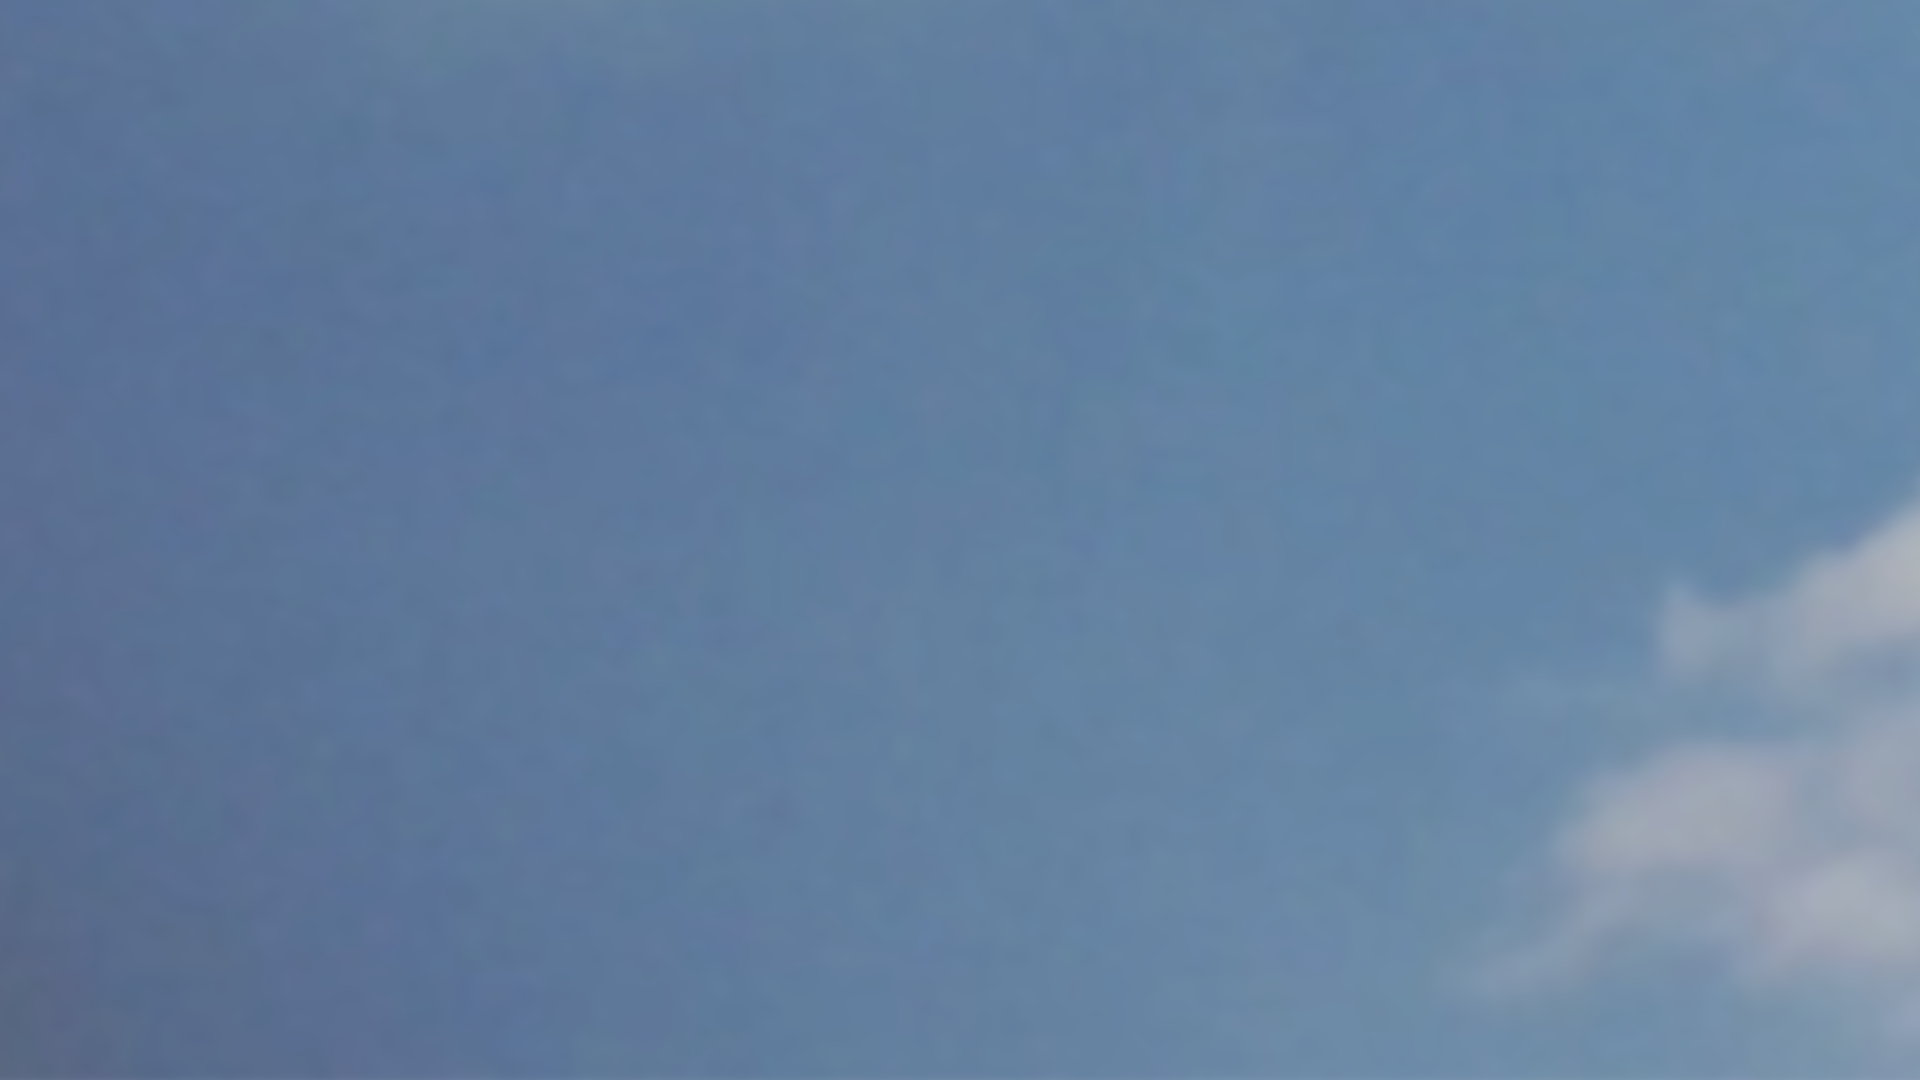
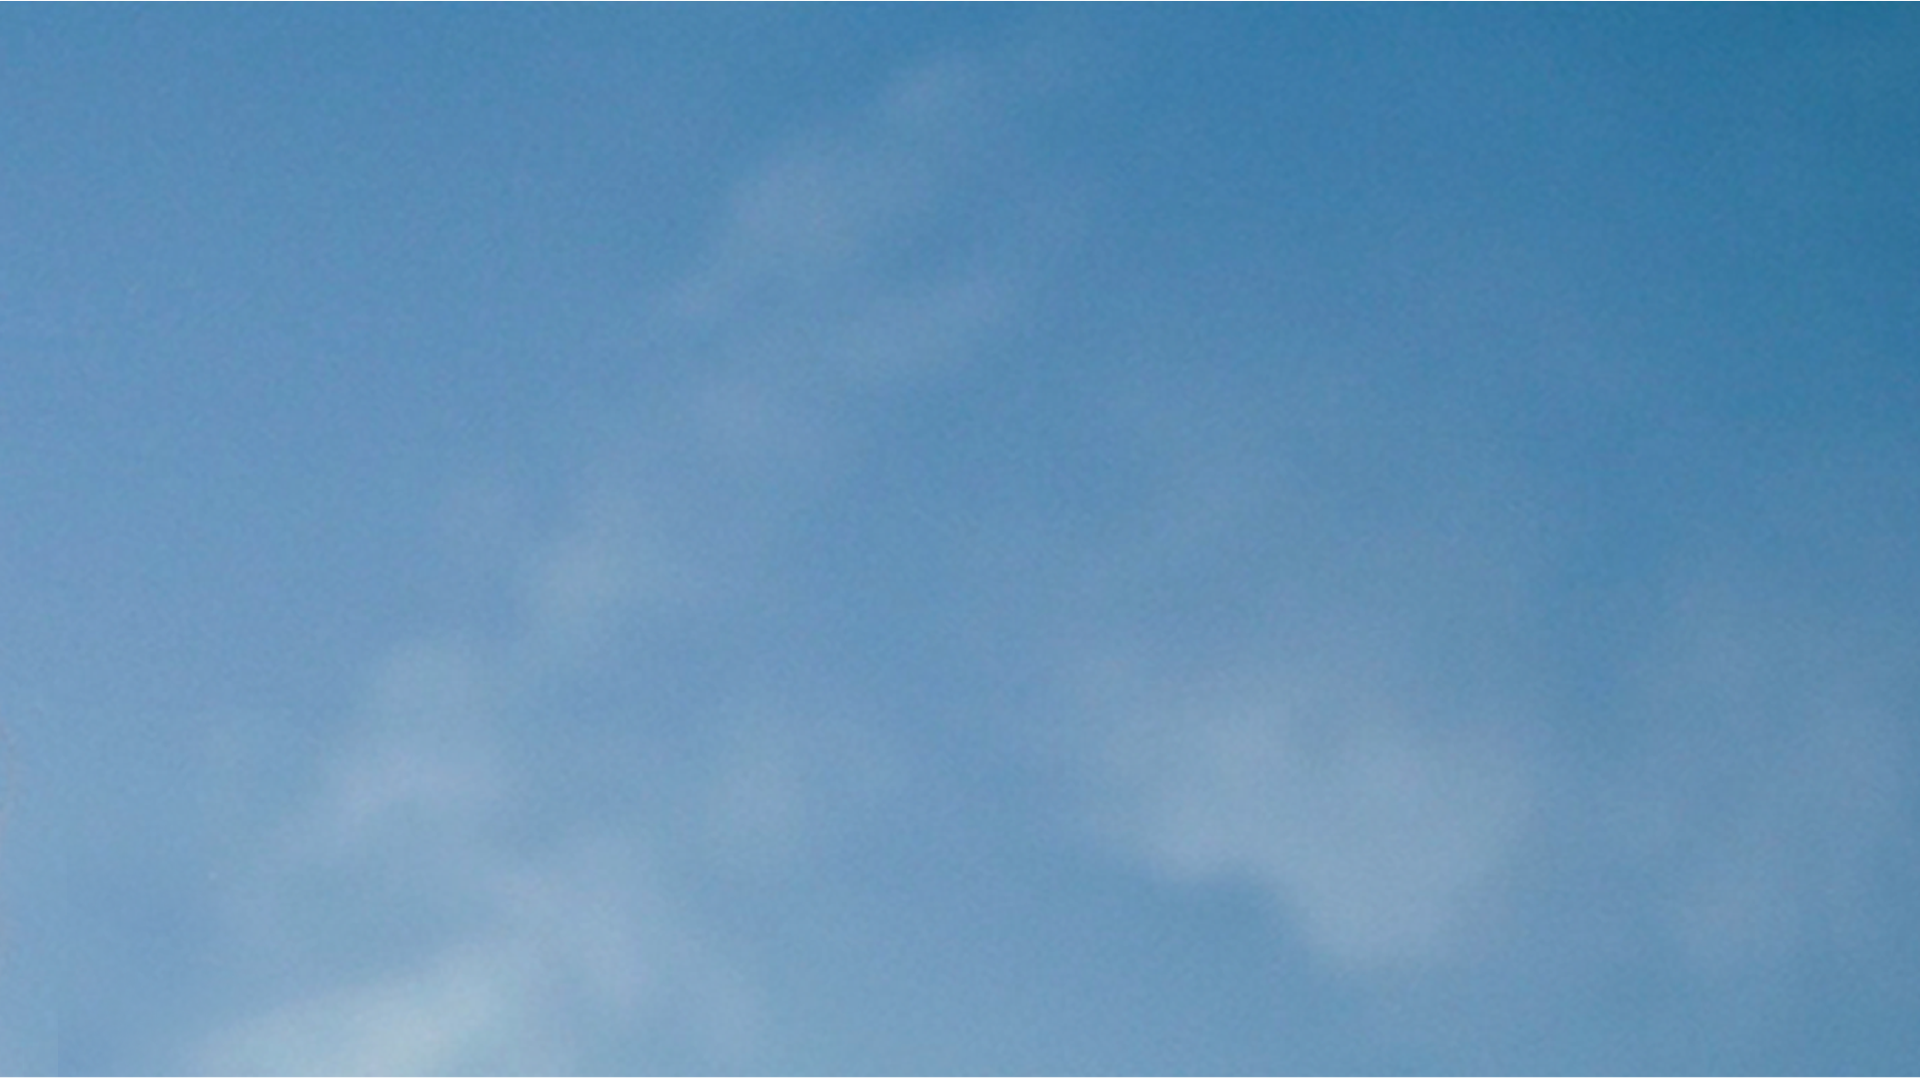
update background images and colors

diff --git a/css/main.css b/css/main.css
@@ -49,7 +49,7 @@ a.active {
 .about {
     background-image: url(../img/BGMIDDLE.png);
     background-position: bottom right;
-    background-size: auto;
+    background-size: cover;
     background-attachment: fixed;
     background-repeat: no-repeat;
 }
@@ -87,7 +87,7 @@ a.active {
 }
 
 body {
-    background: #7795bb;
+    background: #5c91b4;
     font-family: 'Courier New', Courier, monospace;
     color: #cbfe19;
 }
